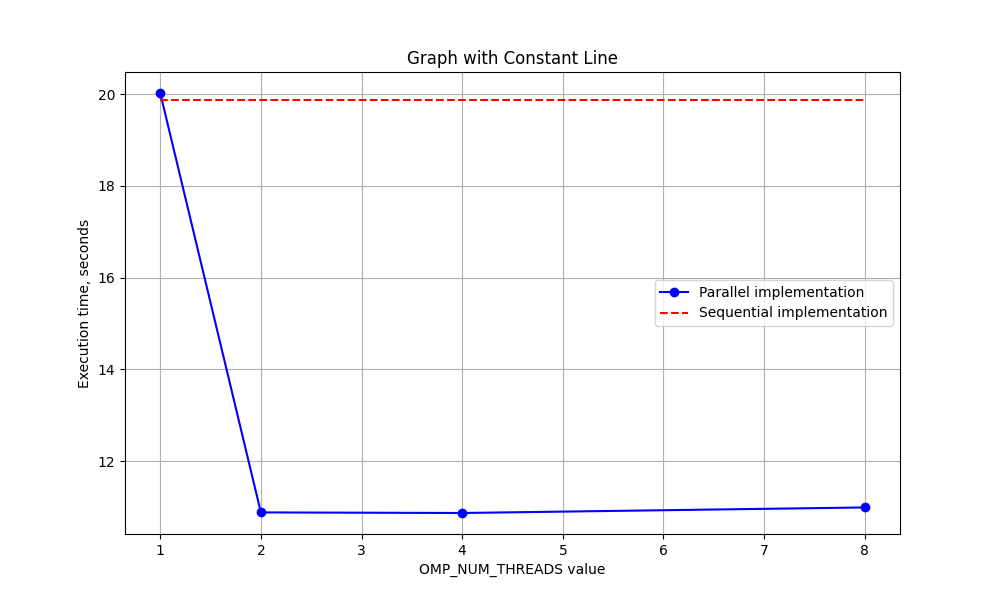
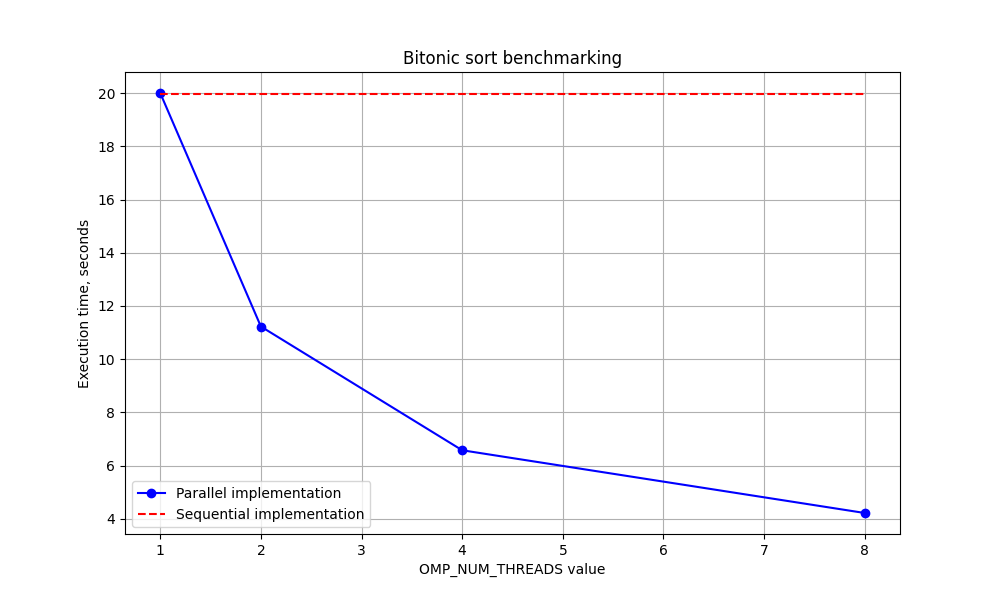
Remeasure benchmark

diff --git a/plot/plot.py b/plot/plot.py
@@ -1,12 +1,12 @@
 import matplotlib.pyplot as plt
 
 # Sample data for the first graph (list of pairs)
-data1 = [(1, 20.026), (2, 10.881), (4, 10.868), (8, 10.989)]
+data1 = [(1, 20.004), (2, 11.228), (4, 6.578), (8, 4.220)]
 # Unpack the data into x and y coordinates
 x1, y1 = zip(*data1)
 
 # Constant line value
-constant_value = 19.880
+constant_value = 19.964
 
 # Create a new figure and axis
 plt.figure(figsize=(10, 6))
@@ -19,7 +19,7 @@ x_constant = range(1, 9)
 plt.plot(x_constant, [constant_value] * len(x_constant), color='r', linestyle='--', label='Sequential implementation')  # Red dashed line
 
 # Adding title and labels
-plt.title('Graph with Constant Line')
+plt.title('Bitonic sort benchmarking')
 plt.xlabel('OMP_NUM_THREADS value')
 plt.ylabel('Execution time, seconds')
 
